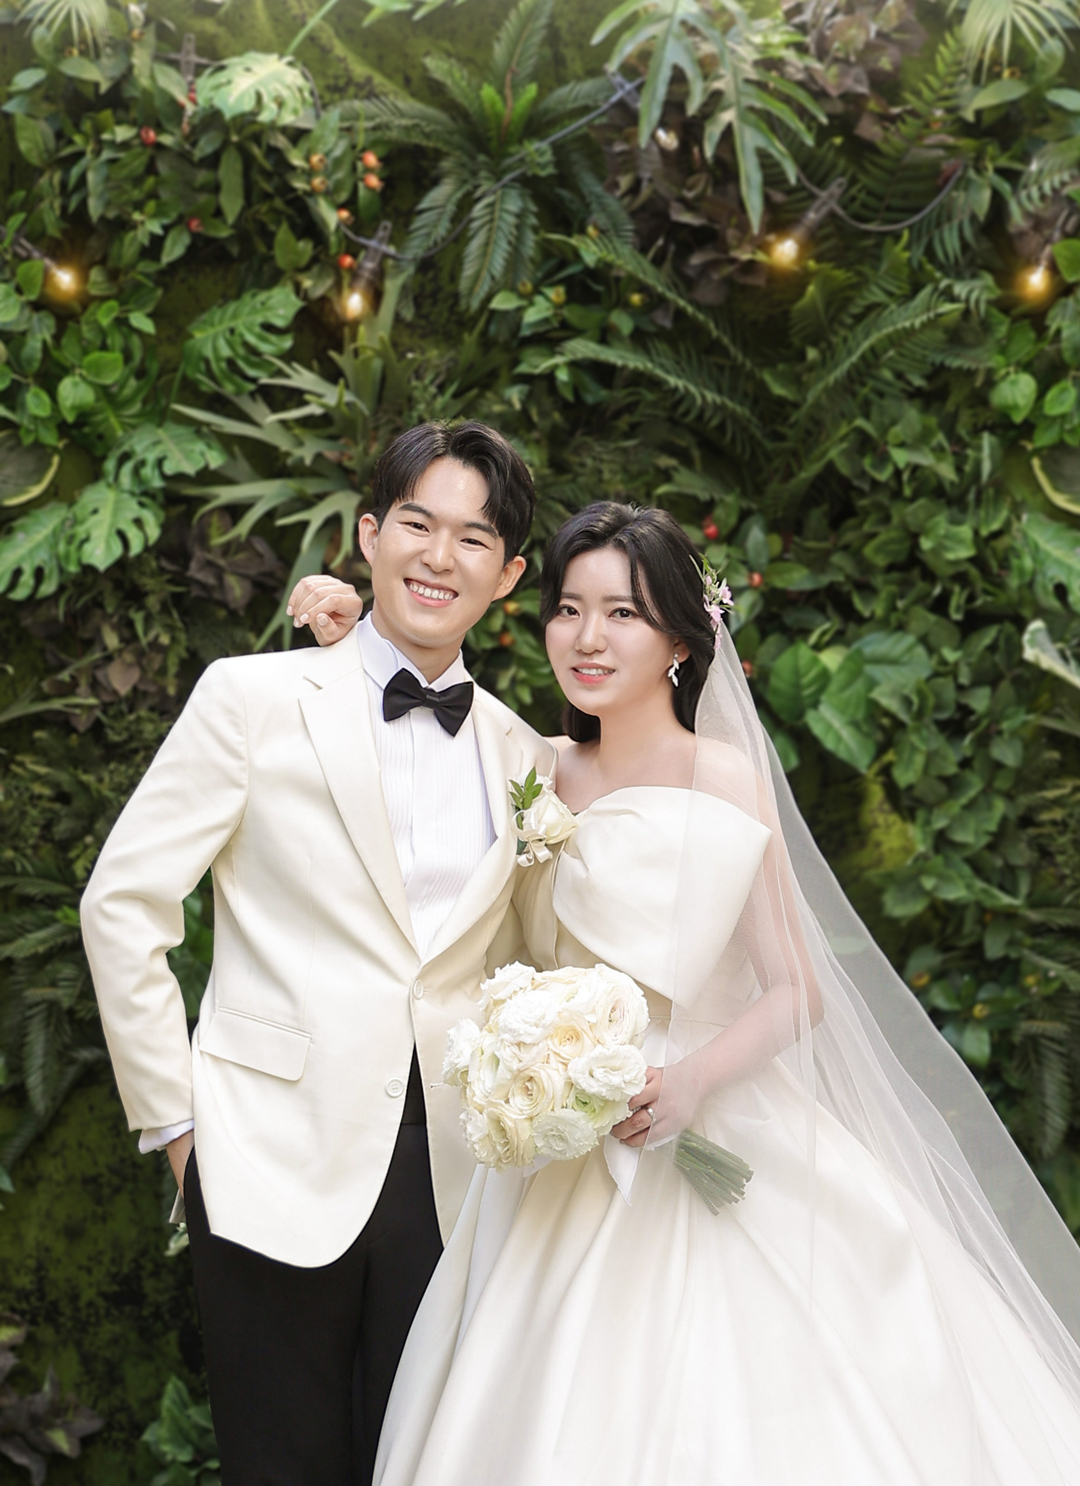
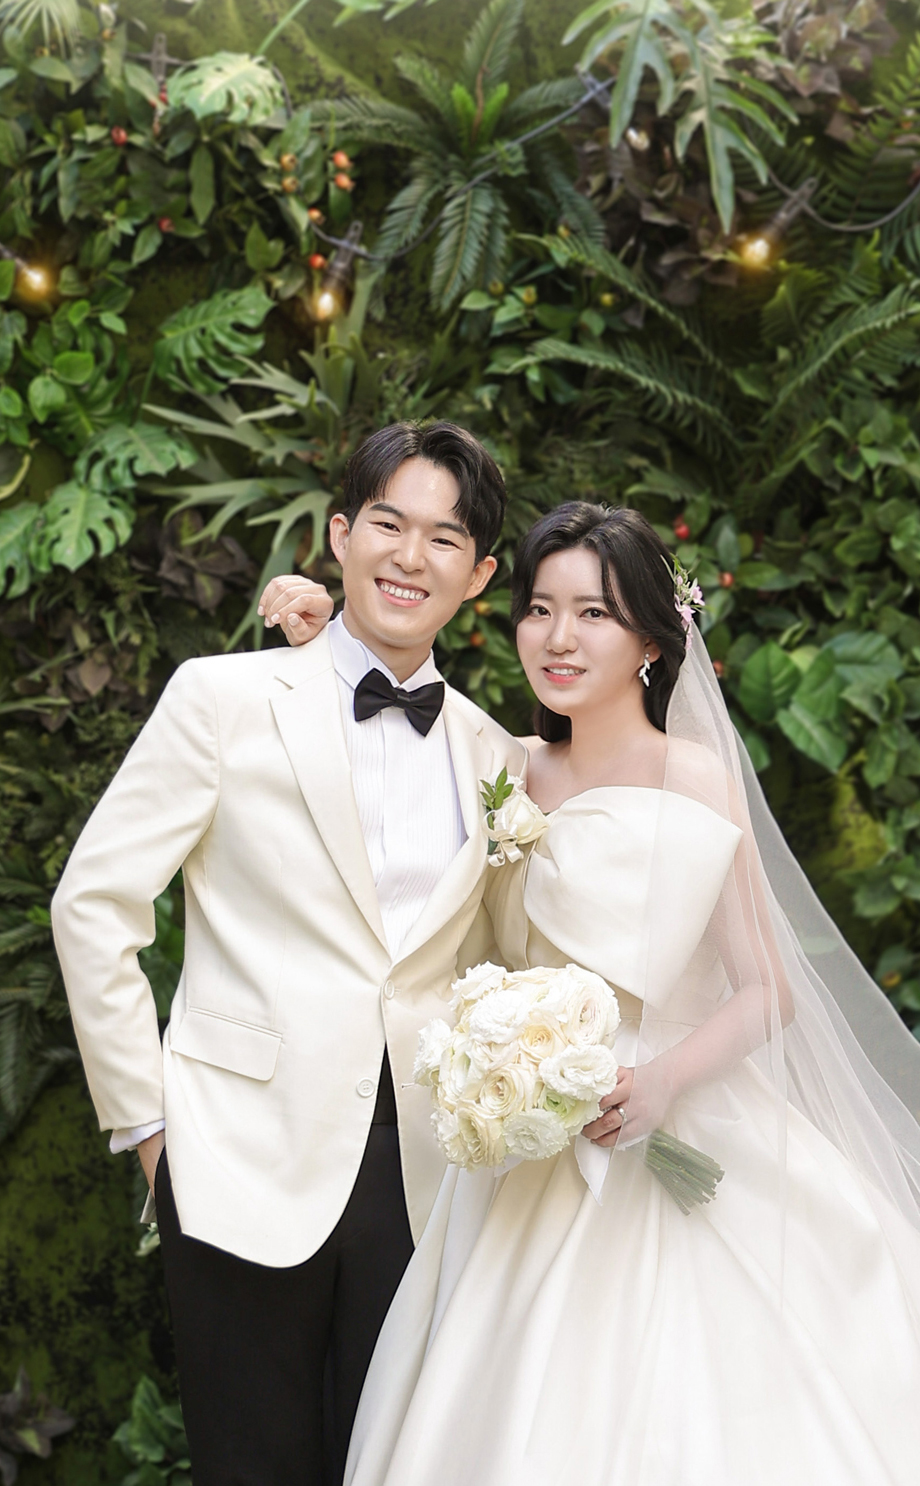
test cover image

diff --git a/src/components/pageItem/AppCover.vue b/src/components/pageItem/AppCover.vue
@@ -131,10 +131,15 @@ const particleOptions = {
   background-repeat: no-repeat;
   /* background-position-x: 45%;
   background-position-y: 70%;
-  background-size: 260%; */
-  background-position-x: 38%;
-  background-position-y: 0;
-  background-size: 138%;
+  background-size: 120%; */
+  /* background-position-x: 38%;
+  background-position-y: 0; */
+  /* background-size: contain; */
+
+  background-size: cover;
+  background-position-x: 50%;
+  background-position-y: calc(70% - 100px);
+
 }
 
 #tsparticles {
